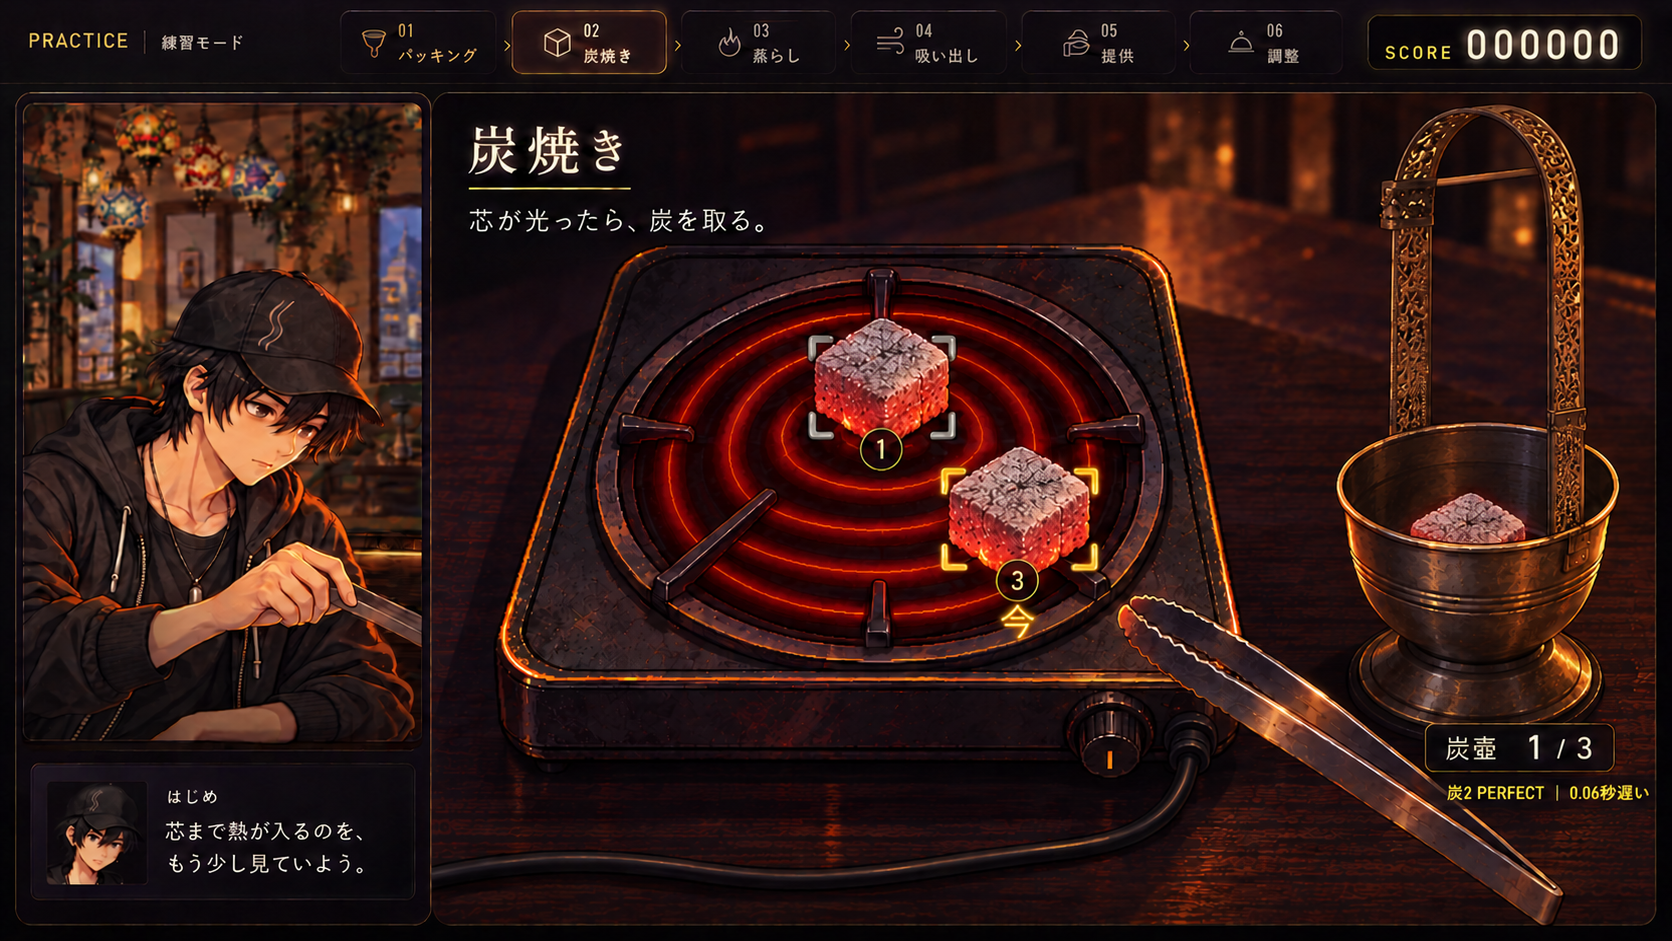
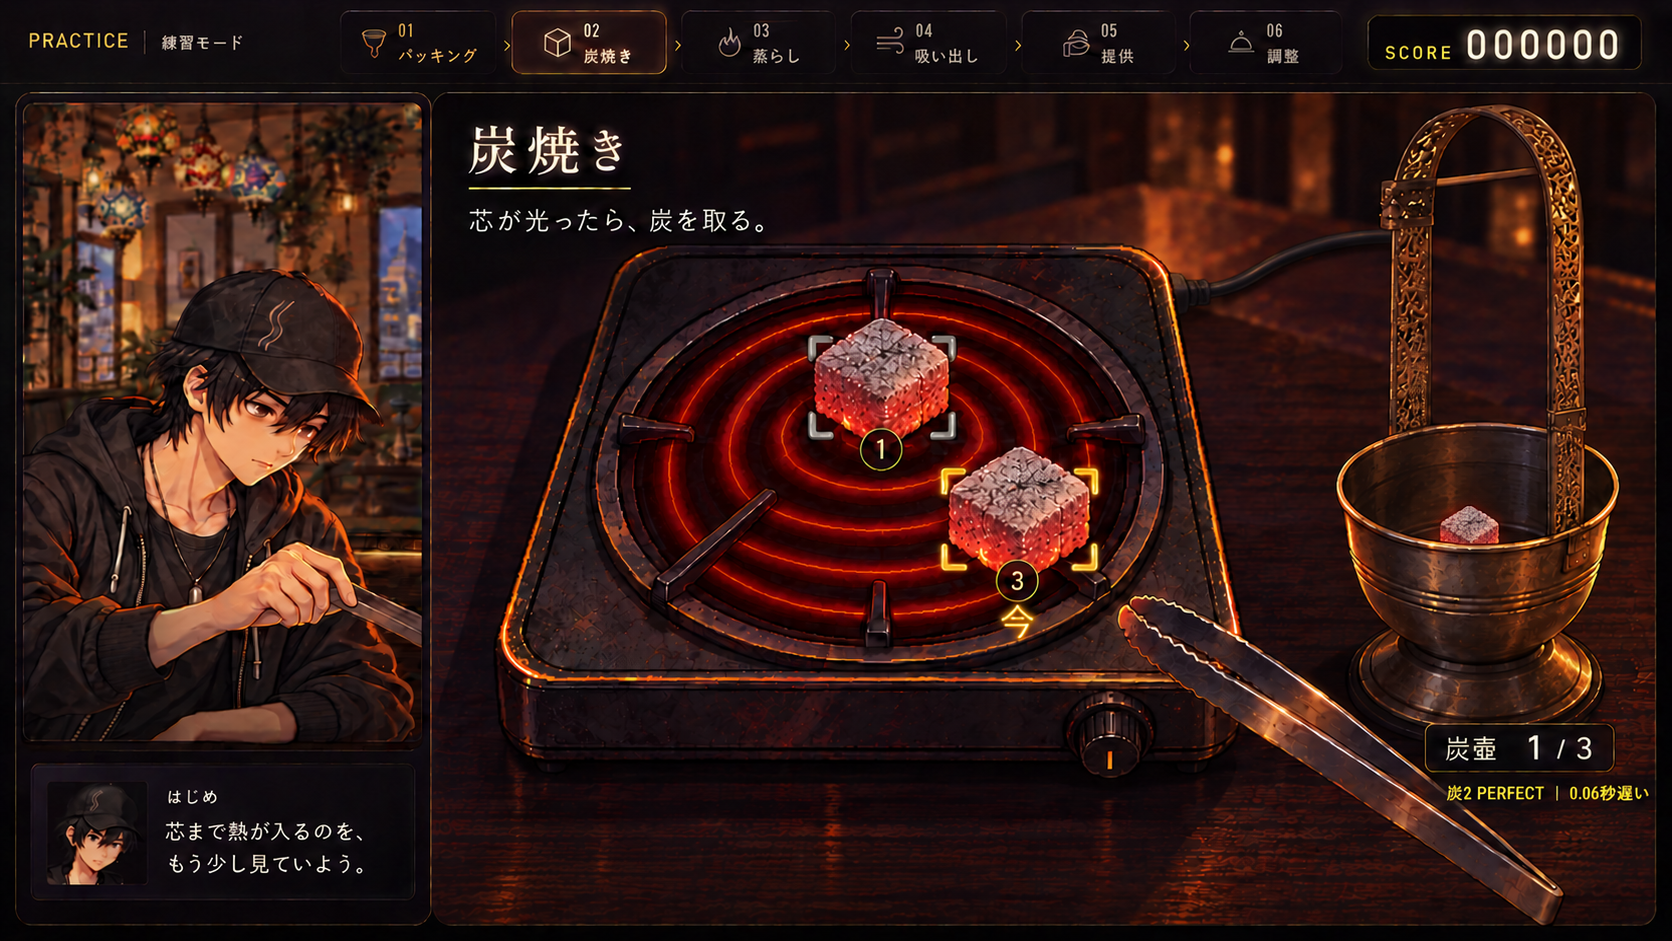
design(heat): move stove cord rearward and correct stored charcoal scale

diff --git a/asset_sources/coal-heat-ui-proposals/iterations/hybrid-v2/hybrid.html b/asset_sources/coal-heat-ui-proposals/iterations/hybrid-v2/hybrid.html
@@ -1,0 +1,32 @@
+<!doctype html>
+<html lang="ja">
+<head>
+<meta charset="utf-8">
+<meta name="viewport" content="width=device-width,initial-scale=1">
+<meta name="color-scheme" content="dark">
+<link rel="icon" href="data:,">
+<title>炭焼きUI · A/B統合プレビュー</title>
+<style>
+:root{color-scheme:dark;--bg:#100d15;--line:#3d333e;--text:#ece6dc;--dim:#afa1ae;--gold:#e1bc7a;font-family:"Noto Sans CJK JP","Hiragino Kaku Gothic ProN","Yu Gothic",sans-serif}*{box-sizing:border-box}body{margin:0;background:radial-gradient(ellipse at 90% 0,#352235,transparent 55%),var(--bg);color:var(--text);line-height:1.7}button{font:inherit;cursor:pointer;touch-action:manipulation}a{color:var(--dim);text-underline-offset:4px}button:focus-visible,a:focus-visible,img:focus-visible{outline:3px solid #f5d8a0;outline-offset:4px}header,main,footer{width:min(1456px,calc(100% - 64px));margin:auto}header{padding:27px 0 19px;display:flex;justify-content:space-between;align-items:flex-end;gap:24px}.eyebrow{color:var(--gold);font-size:10px;letter-spacing:.15em;margin:0 0 5px}h1{font-size:23px;line-height:1.5;margin:0;font-weight:600}.scope{font-size:11px;color:var(--dim);text-align:right}.toolbar{border-top:1px solid var(--line);padding:16px 0;display:flex;justify-content:space-between;gap:16px}.tabs{display:flex;gap:9px}.tab,.compare-btn,.close{color:var(--dim);background:#201923;border:1px solid var(--line);border-radius:7px;padding:10px 18px;font-size:13px}.tab[aria-selected=true]{color:var(--text);border-color:var(--gold);background:#3a2d27}.compare-btn[aria-pressed=true]{color:var(--gold);border-color:var(--gold)}.viewer{background:#09070d;border:1px solid #57404a;border-radius:10px;overflow:hidden;box-shadow:0 20px 60px #0005}.viewer img{width:100%;display:block;cursor:zoom-in}.both{display:grid;grid-template-columns:1fr 1fr;gap:22px}.both figure{border:1px solid var(--line);border-radius:9px;overflow:hidden;margin:0;background:#19131e}.both img{display:block;width:100%;cursor:zoom-in}.both figcaption{padding:12px 18px;color:var(--dim);font-size:12px}footer{padding:19px 0 24px;font-size:11px;text-align:right}[hidden]{display:none!important}dialog{max-width:calc(100vw - 32px);max-height:calc(100dvh - 32px);padding:12px;border:1px solid #675043;border-radius:8px;background:#0d0911;color:var(--text)}dialog::backdrop{background:#050307e8}dialog .bar{display:flex;justify-content:space-between;gap:25px;padding:5px 4px 14px;align-items:center;font-size:12px}dialog img{max-width:100%;max-height:calc(100dvh - 130px);display:block;width:auto;height:auto;margin:auto}.close{font-size:12px;padding:6px 15px}#board{display:none}body.board header,body.board main,body.board footer,body.board dialog{display:none}body.board #board{display:block;width:1800px;padding:32px 36px;background:#100d15}.board-top{margin-bottom:24px}.board-top h1{font-size:30px}#board .both figcaption{padding:16px 20px;font-size:17px}#board .both img{cursor:default}@media(max-width:800px){header,main,footer{width:calc(100% - 32px)}header{padding-top:19px;gap:12px}h1{font-size:19px}.eyebrow{font-size:8px}.scope{font-size:9px}.toolbar{gap:8px}.tab,.compare-btn{font-size:11px;padding:8px 10px}.tabs{gap:6px}.both{grid-template-columns:1fr;gap:16px}}@media(prefers-reduced-motion:reduce){*{scroll-behavior:auto}}
+</style>
+</head>
+<body>
+<header><div><p class="eyebrow">水煙前線 -EN:CODE-　／　A × B HYBRID</p><h1>炭焼きUI</h1></div><div class="scope">静止モック<br>画像を押すと拡大</div></header>
+<main>
+<div class="toolbar"><div class="tabs" role="tablist" aria-label="取り出し前後"><button class="tab" role="tab" id="before" aria-selected="true" aria-controls="single" data-state="before">取り出す前 · 0/3</button><button class="tab" role="tab" id="after" aria-selected="false" aria-controls="single" tabindex="-1" data-state="after">1個回収後 · 1/3</button></div><button class="compare-btn" id="compare" aria-pressed="false">前後を並べる</button></div>
+<section id="single" role="tabpanel" aria-labelledby="before"><div class="viewer"><img id="hero" src="AB-hybrid-before.png?rev=equipment-v2" alt="取り出し前。コンロに炭3個、炭壺に0個。コンロには電源コードがつながり、炭壺は受け部から離れた長い持ち手を備える。" tabindex="0" data-zoom></div></section>
+<section class="both" id="both" aria-label="回収前後の比較" hidden><figure><img src="AB-hybrid-before.png?rev=equipment-v2" alt="取り出し前：コンロに3個、炭壺に0個。" tabindex="0" data-zoom><figcaption>取り出す前 · 0/3</figcaption></figure><figure><img src="AB-hybrid-after.png?rev=equipment-v2" alt="1個回収後：コンロに2個、炭壺に1個。" tabindex="0" data-zoom><figcaption>1個回収後 · 1/3</figcaption></figure></section>
+</main>
+<footer><a href="../../README.md">提案・制作記録</a></footer>
+<dialog id="zoom"><div class="bar"><span id="zoom-title"></span><button class="close" id="close">閉じる　Esc</button></div><img id="zoom-image" alt=""></dialog>
+<div id="board"><div class="board-top"><p class="eyebrow">水煙前線 -EN:CODE-　／　A × B HYBRID</p><h1>炭焼きUI</h1></div><div class="both"><figure><img src="AB-hybrid-before.png?rev=equipment-v2" alt="取り出し前"><figcaption>取り出す前 · コンロ3個 ／ 炭壺0個</figcaption></figure><figure><img src="AB-hybrid-after.png?rev=equipment-v2" alt="1個回収後"><figcaption>1個回収後 · コンロ2個 ／ 炭壺1個</figcaption></figure></div></div>
+<script>
+const states={before:{file:'AB-hybrid-before.png?rev=equipment-v2',alt:'取り出し前：コンロに3個、炭壺に0個。'},after:{file:'AB-hybrid-after.png?rev=equipment-v2',alt:'1個回収後：コンロに2個、炭壺に1個。'}};
+const tabs=[...document.querySelectorAll('.tab')],single=document.getElementById('single'),both=document.getElementById('both'),compare=document.getElementById('compare');let current='before';
+function show(key){current=key;const s=states[key];tabs.forEach(t=>{const on=t.dataset.state===key;t.setAttribute('aria-selected',String(on));t.tabIndex=on?0:-1});single.setAttribute('aria-labelledby',key);document.getElementById('hero').src=s.file;document.getElementById('hero').alt=s.alt;single.hidden=false;both.hidden=true;compare.setAttribute('aria-pressed','false');history.replaceState(null,'','#'+key)}
+tabs.forEach((t,i)=>{t.addEventListener('click',()=>show(t.dataset.state));t.addEventListener('keydown',e=>{let n;if(e.key==='ArrowLeft'||e.key==='ArrowRight')n=1-i;if(e.key==='Home')n=0;if(e.key==='End')n=1;if(n!==undefined){e.preventDefault();show(tabs[n].dataset.state);tabs[n].focus()}})});
+compare.addEventListener('click',()=>{const on=compare.getAttribute('aria-pressed')!=='true';compare.setAttribute('aria-pressed',String(on));single.hidden=on;both.hidden=!on;if(on)history.replaceState(null,'','#both');else show(current)});
+const dialog=document.getElementById('zoom');document.querySelectorAll('[data-zoom]').forEach(img=>{const open=()=>{document.getElementById('zoom-image').src=img.src;document.getElementById('zoom-image').alt=img.alt;document.getElementById('zoom-title').textContent=img.alt;dialog.showModal()};img.addEventListener('click',open);img.addEventListener('keydown',e=>{if(e.key==='Enter'||e.key===' '){e.preventDefault();open()}})});document.getElementById('close').addEventListener('click',()=>dialog.close());dialog.addEventListener('click',e=>{if(e.target===dialog)dialog.close()});if(new URLSearchParams(location.search).has('board'))document.body.classList.add('board');else if(location.hash==='#both')compare.click();else if(states[location.hash.slice(1)])show(location.hash.slice(1));
+</script>
+</body>
+</html>

diff --git a/asset_sources/coal-heat-ui-proposals/hybrid.html b/asset_sources/coal-heat-ui-proposals/hybrid.html
@@ -14,14 +14,14 @@
 <header><div><p class="eyebrow">水煙前線 -EN:CODE-　／　A × B HYBRID</p><h1>炭焼きUI</h1></div><div class="scope">静止モック<br>画像を押すと拡大</div></header>
 <main>
 <div class="toolbar"><div class="tabs" role="tablist" aria-label="取り出し前後"><button class="tab" role="tab" id="before" aria-selected="true" aria-controls="single" data-state="before">取り出す前 · 0/3</button><button class="tab" role="tab" id="after" aria-selected="false" aria-controls="single" tabindex="-1" data-state="after">1個回収後 · 1/3</button></div><button class="compare-btn" id="compare" aria-pressed="false">前後を並べる</button></div>
-<section id="single" role="tabpanel" aria-labelledby="before"><div class="viewer"><img id="hero" src="AB-hybrid-before.png?rev=equipment-v2" alt="取り出し前。コンロに炭3個、炭壺に0個。コンロには電源コードがつながり、炭壺は受け部から離れた長い持ち手を備える。" tabindex="0" data-zoom></div></section>
-<section class="both" id="both" aria-label="回収前後の比較" hidden><figure><img src="AB-hybrid-before.png?rev=equipment-v2" alt="取り出し前：コンロに3個、炭壺に0個。" tabindex="0" data-zoom><figcaption>取り出す前 · 0/3</figcaption></figure><figure><img src="AB-hybrid-after.png?rev=equipment-v2" alt="1個回収後：コンロに2個、炭壺に1個。" tabindex="0" data-zoom><figcaption>1個回収後 · 1/3</figcaption></figure></section>
+<section id="single" role="tabpanel" aria-labelledby="before"><div class="viewer"><img id="hero" src="AB-hybrid-before.png?rev=scale-v3" alt="取り出し前。コンロに炭3個、炭壺に0個。コンロ後部には電源コードがつながり、炭壺は受け部から離れた長い持ち手を備える。" tabindex="0" data-zoom></div></section>
+<section class="both" id="both" aria-label="回収前後の比較" hidden><figure><img src="AB-hybrid-before.png?rev=scale-v3" alt="取り出し前：コンロに3個、炭壺に0個。" tabindex="0" data-zoom><figcaption>取り出す前 · 0/3</figcaption></figure><figure><img src="AB-hybrid-after.png?rev=scale-v3" alt="1個回収後：コンロに2個、炭壺に1個。" tabindex="0" data-zoom><figcaption>1個回収後 · 1/3</figcaption></figure></section>
 </main>
 <footer><a href="README.md">提案・制作記録</a></footer>
 <dialog id="zoom"><div class="bar"><span id="zoom-title"></span><button class="close" id="close">閉じる　Esc</button></div><img id="zoom-image" alt=""></dialog>
-<div id="board"><div class="board-top"><p class="eyebrow">水煙前線 -EN:CODE-　／　A × B HYBRID</p><h1>炭焼きUI</h1></div><div class="both"><figure><img src="AB-hybrid-before.png?rev=equipment-v2" alt="取り出し前"><figcaption>取り出す前 · コンロ3個 ／ 炭壺0個</figcaption></figure><figure><img src="AB-hybrid-after.png?rev=equipment-v2" alt="1個回収後"><figcaption>1個回収後 · コンロ2個 ／ 炭壺1個</figcaption></figure></div></div>
+<div id="board"><div class="board-top"><p class="eyebrow">水煙前線 -EN:CODE-　／　A × B HYBRID</p><h1>炭焼きUI</h1></div><div class="both"><figure><img src="AB-hybrid-before.png?rev=scale-v3" alt="取り出し前"><figcaption>取り出す前 · コンロ3個 ／ 炭壺0個</figcaption></figure><figure><img src="AB-hybrid-after.png?rev=scale-v3" alt="1個回収後"><figcaption>1個回収後 · コンロ2個 ／ 炭壺1個</figcaption></figure></div></div>
 <script>
-const states={before:{file:'AB-hybrid-before.png?rev=equipment-v2',alt:'取り出し前：コンロに3個、炭壺に0個。'},after:{file:'AB-hybrid-after.png?rev=equipment-v2',alt:'1個回収後：コンロに2個、炭壺に1個。'}};
+const states={before:{file:'AB-hybrid-before.png?rev=scale-v3',alt:'取り出し前：コンロに3個、炭壺に0個。'},after:{file:'AB-hybrid-after.png?rev=scale-v3',alt:'1個回収後：コンロに2個、炭壺に1個。'}};
 const tabs=[...document.querySelectorAll('.tab')],single=document.getElementById('single'),both=document.getElementById('both'),compare=document.getElementById('compare');let current='before';
 function show(key){current=key;const s=states[key];tabs.forEach(t=>{const on=t.dataset.state===key;t.setAttribute('aria-selected',String(on));t.tabIndex=on?0:-1});single.setAttribute('aria-labelledby',key);document.getElementById('hero').src=s.file;document.getElementById('hero').alt=s.alt;single.hidden=false;both.hidden=true;compare.setAttribute('aria-pressed','false');history.replaceState(null,'','#'+key)}
 tabs.forEach((t,i)=>{t.addEventListener('click',()=>show(t.dataset.state));t.addEventListener('keydown',e=>{let n;if(e.key==='ArrowLeft'||e.key==='ArrowRight')n=1-i;if(e.key==='Home')n=0;if(e.key==='End')n=1;if(n!==undefined){e.preventDefault();show(tabs[n].dataset.state);tabs[n].focus()}})});

diff --git a/asset_sources/coal-heat-ui-proposals/README.md b/asset_sources/coal-heat-ui-proposals/README.md
@@ -2,7 +2,7 @@
 
 ## 最新の選定モック：A/B統合・実物の炭と炭壺
 
-ユーザーがA/Bのハイブリッドを選定。炭の焼け具合を実物写真で見直し、3枠のトレーを一つの炭壺へ替えた。最新修正では画像下部の焼け方の凡例を削除し、コンロの電源コードと、熱い受け部から離れた長い持ち手を追加した。
+ユーザーがA/Bのハイブリッドを選定。炭の焼け具合を実物写真で見直し、3枠のトレーを一つの炭壺へ替えた。画像下部の焼け方の凡例を削除し、熱い受け部から離れた長い持ち手を追加。最新修正は電源コードの後部接続と、実物の寸法比をもとにした炭壺内の小さな炭。
 
 [専用プレビュー](https://shisha-coal-ui-preview.briskdill17.chatgpt.site) ／ [統合版の前後比較ページ](hybrid.html) ／ [前後の一覧画像](hybrid-comparison.png) ／ [実物の参考と描き分け](hybrid-reference.md)
 
@@ -15,10 +15,11 @@
 - **操作**：Aの寄り画と静かなコイルを土台に、Bの番号・角括弧・「今」を加える。実物の灰・熾きと、ゲーム用の判定合図を分ける。
 - **個数**：取り出し前はコンロ3個／壺0個。1個回収後はコンロ2個／壺1個。回収数は壺の脇へ置く。
 - **説明の整理**：「黒い芯→赤熱→芯が光る→灰かぶり」の常設カードを画像から削除。比較ページ下の説明も外し、画像と前後切替を中心にする。
-- **電源**：コンロの筐体に接続された黒いゴムコードを描く。ケーブルはコイルを跨がず、下の作業台を通って画面外の電源へ続く。
+- **電源**：前面の誤った接続部と下のコードを削除し、コンロ後部の右寄りから一本のコードを引き出す。加熱部を跨がず、奥の台から画面外の電源へ続く。
 - **持ち手**：炭壺の縁から長い支柱が伸び、高い握り位置まで空間を確保。深い一つの受け部と台座を残す。
+- **壺内の炭**：25mm角炭と受け部直径130mmの寸法比（約1:5）を基準にする。原画の壺の開口幅約270pxに対し、回収炭の灰面の見える幅は約57px、約21%。壺の中に空間を残す。
 
-[今回の編集指示と原画確認](hybrid-equipment-generation.json)。説明カード・電源コードなし・短い持ち手だった前版は [iterations/hybrid-v1/](iterations/hybrid-v1/) に保存。
+[今回の寸法根拠・編集指示・原画確認](hybrid-scale-generation.json)。前面にコードがつき、壺内の炭が大きかった前版は [iterations/hybrid-v2/](iterations/hybrid-v2/) に保存。さらに前の説明カードあり・電源コードなし・短い持ち手版は [iterations/hybrid-v1/](iterations/hybrid-v1/) に保存。
 
 統合版も採用前の静止モック。本編操作・採点・回収アニメーションは未接続。旧3案と初版は比較履歴として残す。下の旧案に描かれた炭の質感と3区画の回収皿は採用しない。
 
